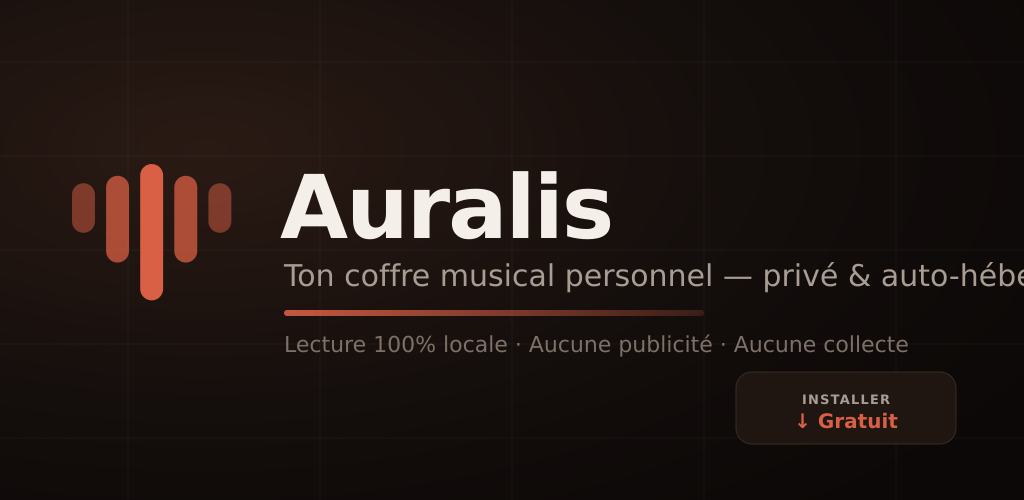
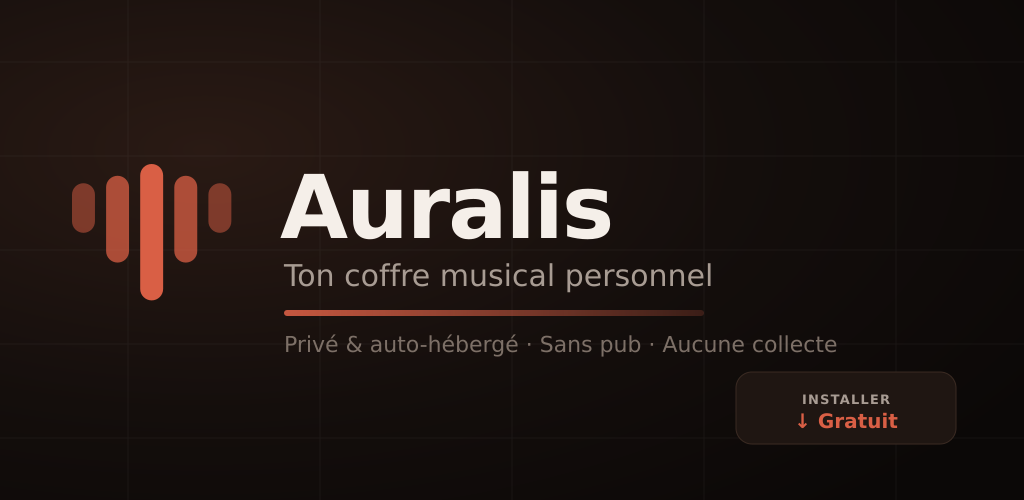
feat(store): complete English Play Store listing kit + fix scan prune bug
store-listing/en-US/: icon-512 (full-bleed), English feature graphic
(regen via scripts/gen-store-listing.mjs), 7 phone screenshots 1080x1920
captured from the web app on the English demo library
(scripts/gen-sample-music-en.sh), and listing.md with all console copy
(app name, short/full descriptions, release notes, captions).

Fix: scanner prune cascade crashed with 'no such column: trackhash' —
art_colors is keyed by arthash, not trackhash. Any scan where a file
disappeared failed the whole scan and left duplicate tracks. The cascade
now deletes art_colors by arthash, and only when no remaining track
still references the artwork. Reproduced and verified fixed (27/27
removed cleanly after replacing the demo library).

Also fixes the FR banner overflow in gen-brand-assets.mjs (tagline
clipped at the right edge on both locales).

Changed region(s): [[0.2812, 0.66, 0.9062, 0.72], [0.7188, 0.51, 1.0, 0.57]]

diff --git a/src/server/library/scanner.ts b/src/server/library/scanner.ts
@@ -311,14 +311,18 @@ export async function runScan(): Promise<ScanProgress> {
     if (toRemove.length) {
       const removeTrack = db.prepare("DELETE FROM tracks WHERE filepath = ?");
       const removeFtsByHash = db.prepare("DELETE FROM track_fts WHERE trackhash = ?");
-      const selectHash = db.prepare("SELECT trackhash FROM tracks WHERE filepath = ?");
+      const selectHash = db.prepare("SELECT trackhash, arthash FROM tracks WHERE filepath = ?");
       // Cascade: a pruned track must not leave orphan rows behind in every table
       // that references trackhash. Without this, deleting a file accumulates dead
       // references in favorites / playcounts / recents / playlists / play_events /
       // lyrics / dislikes / art_colors over time — filtered client-side but still
       // bloat. Run them all inside the same transaction so a prune is atomic.
-      const cascadeByHash = db.transaction((hashes: string[]) => {
-        for (const h of hashes) {
+      // NB: art_colors is keyed by arthash (shared by all tracks of an album),
+      // NOT by trackhash — its row is only dropped when no remaining track still
+      // references that artwork.
+      const cascadeByHash = db.transaction((entries: { trackhash: string; arthash: string | null }[]) => {
+        const seenArt = new Set<string>();
+        for (const { trackhash: h, arthash } of entries) {
           removeFtsByHash.run(h);
           db.prepare("DELETE FROM favorites WHERE trackhash = ?").run(h);
           db.prepare("DELETE FROM dislikes WHERE trackhash = ?").run(h);
@@ -327,17 +331,22 @@ export async function runScan(): Promise<ScanProgress> {
           db.prepare("DELETE FROM play_events WHERE trackhash = ?").run(h);
           db.prepare("DELETE FROM playlist_tracks WHERE trackhash = ?").run(h);
           db.prepare("DELETE FROM lyrics WHERE trackhash = ?").run(h);
-          db.prepare("DELETE FROM art_colors WHERE trackhash = ?").run(h);
+          if (arthash && !seenArt.has(arthash)) {
+            seenArt.add(arthash);
+            db.prepare(
+              "DELETE FROM art_colors WHERE arthash = ? AND NOT EXISTS (SELECT 1 FROM tracks WHERE arthash = ?)"
+            ).run(arthash, arthash);
+          }
         }
       });
       const prune = db.transaction((paths: string[]) => {
-        const removedHashes: string[] = [];
+        const removed: { trackhash: string; arthash: string | null }[] = [];
         for (const p of paths) {
-          const hit = selectHash.get(p) as { trackhash: string } | undefined;
-          if (hit) removedHashes.push(hit.trackhash);
+          const hit = selectHash.get(p) as { trackhash: string; arthash: string | null } | undefined;
+          if (hit) removed.push({ trackhash: hit.trackhash, arthash: hit.arthash });
           removeTrack.run(p);
         }
-        if (removedHashes.length) cascadeByHash(removedHashes);
+        if (removed.length) cascadeByHash(removed);
       });
       prune(toRemove);
     }

diff --git a/store-listing/en-US/listing.md b/store-listing/en-US/listing.md
@@ -1,0 +1,86 @@
+# Google Play Store listing — en-US (default locale)
+
+All copy below fits the Play Console limits. Assets in this folder:
+
+| File | Spec | Play Console field |
+|---|---|---|
+| `icon-512.png` | 512×512 PNG, opaque full-bleed | Icône de l'application |
+| `feature-graphic.png` | 1024×500 PNG | Image de présentation |
+| `screenshots/01-home.png` … `07-equalizer.png` | 1080×1920 (9:16) PNG | Captures d'écran pour téléphone (2–8) |
+
+Regenerate the feature graphic with `bun scripts/gen-store-listing.mjs`.
+Screenshots were captured from the web app (iPhone-class viewport @2x) against
+the English demo library (`scripts/gen-sample-music-en.sh`).
+
+---
+
+## App name (30 max)
+
+```
+Auralis
+```
+
+## Short description (80 max — 72 used)
+
+```
+Self-hosted music player. Your music, your server, every device — private.
+```
+
+## Full description (4000 max — ~1450 used)
+
+```
+Your music. Your server. Zero compromise.
+
+Auralis is a self-hosted music server and player for people who own their music. Run the server on your own hardware — a home server, a NAS, a VPS — and stream your entire library to any device, anywhere. No accounts with big tech. No ads. No tracking. Your collection stays under your control.
+
+YOUR LIBRARY, EVERYWHERE
+• Stream your personal collection from your own Auralis server
+• Full-quality playback, with a 6-band equalizer and presets
+• Background playback with lock-screen and notification controls
+• Android Auto support — browse and play from your car's dashboard
+
+BUILT FOR LISTENING
+• Smart Radio: an endless mix built from your listening history
+• Favorites, playlists and powerful library filters
+• Synced lyrics with word-by-word highlighting
+• Sleep timer and crossfade for smooth nights
+
+CONNECT ACROSS DEVICES
+• Auralis Connect: control the music playing on your PC from your phone
+• Playback position and queue stay in sync across your devices
+• Multiple accounts on one server — each with their own profile
+
+PRIVATE BY DESIGN
+• No analytics, no ads, no trackers, no third-party SDKs
+• Your credentials never leave your device — except to connect to YOUR server
+• Open source: web, Android, iOS and desktop clients
+
+NOTE: Auralis is a client for a self-hosted Auralis server. Set yours up in minutes at github.com/ybenyedder/auralis, then sign in with your server URL, username and password.
+```
+
+## Release notes (500 max — first release)
+
+```
+First Auralis release on Google Play!
+
+Connect the app to your self-hosted Auralis server and stream your music anywhere:
+• Background playback + lock-screen controls
+• Connect sync across devices (phone ↔ PC)
+• Favorites, playlists, smart radio
+• Synced lyrics, equalizer
+• FR/EN interface, dark mode
+
+Your music, your server: 100% private.
+```
+
+---
+
+## Screenshot captions (optional, 100 max each)
+
+1. `01-home.png` — Your library, your daily mixes, on any screen
+2. `02-player.png` — Full-screen player with artwork and controls
+3. `03-lyrics.png` — Synced lyrics with word-by-word highlighting
+4. `04-browse.png` — Browse albums, artists and genres
+5. `05-search.png` — Find anything in seconds
+6. `06-radio.png` — Smart Radio: an endless mix from your history
+7. `07-equalizer.png` — Six-band equalizer with presets
